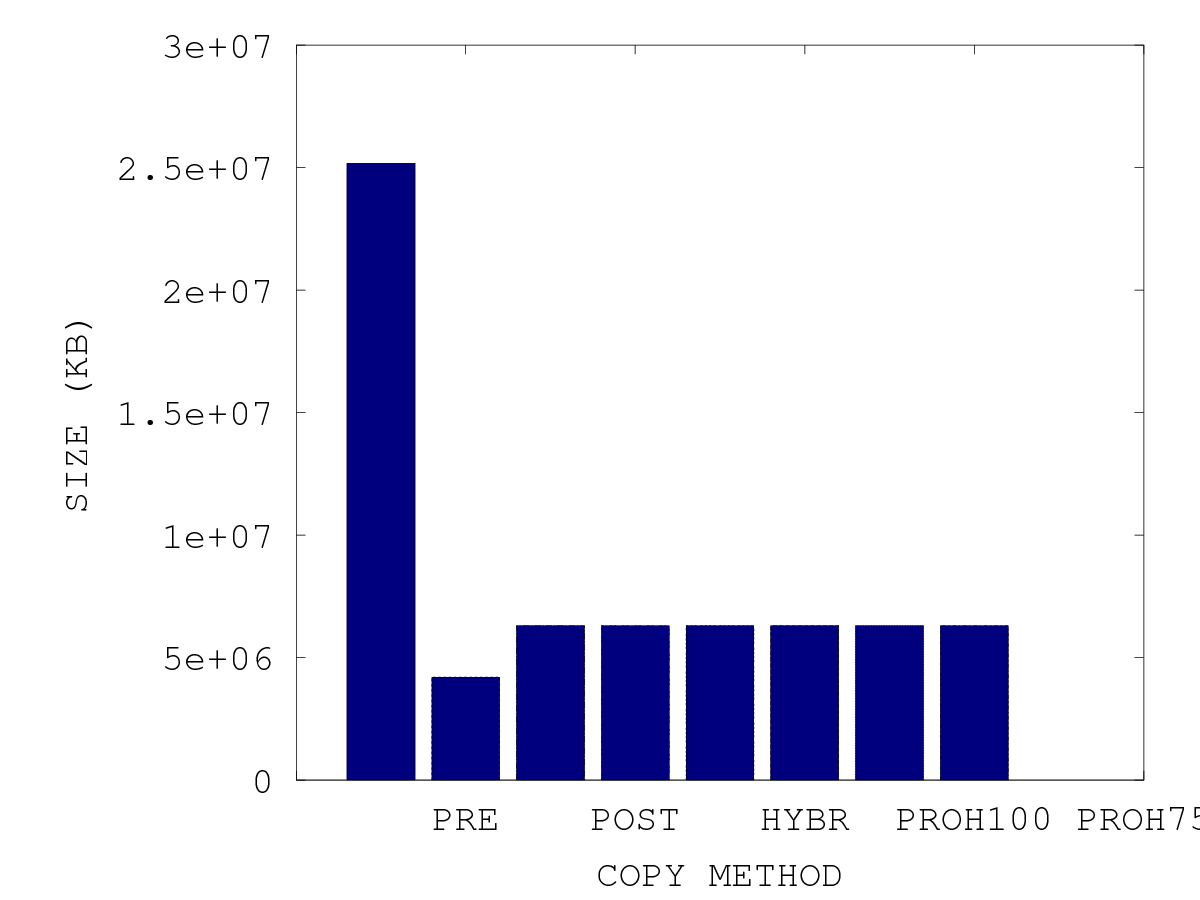
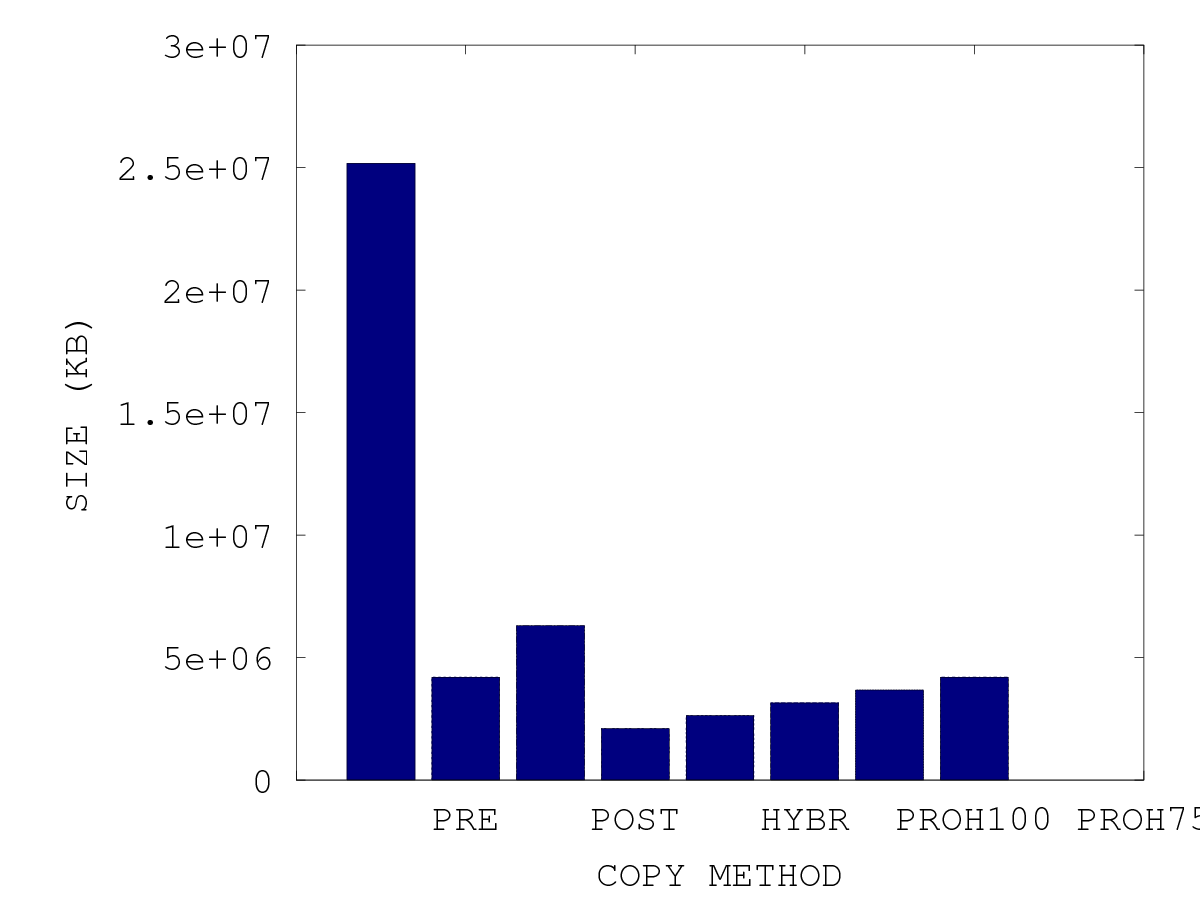
basic.m

Changed region(s): [[0.4933, 0.6844, 0.8633, 0.8089]]

diff --git a/basic.m b/basic.m
@@ -224,28 +224,29 @@ end
 % network fault rate
 NFR = 0.2
 
+prohybrid(acc)
 A (4, 1) = totaltime;
 A (4, 2) = downtime;
 A (4, 3) = totaldata;
-prohybrid(acc)
 %A (4, :) = prohybrid(acc)
 
 acc = 0.75
+prohybrid(acc);
 A (5, 1) = totaltime;
 A (5, 2) = downtime;
 A (5, 3) = totaldata;
 %A (5, :) = prohybrid(acc);
-row = prohybrid(acc);
-A (5, 1) = row(1);
-A (5, 2) = row(2);
-A (5, 3) = row(3);
+%row = prohybrid(acc);
+%A (5, 1) = row(1);
+%A (5, 2) = row(2);
+%A (5, 3) = row(3);
 
 acc = 0.5
-%prohybrid(acc);
+prohybrid(acc);
 A (6, 1) = totaltime;
 A (6, 2) = downtime;
 A (6, 3) = totaldata;
-A (6, :) = prohybrid(acc);
+%A (6, :) = prohybrid(acc);
 
 acc = 0.25
 prohybrid(acc);
